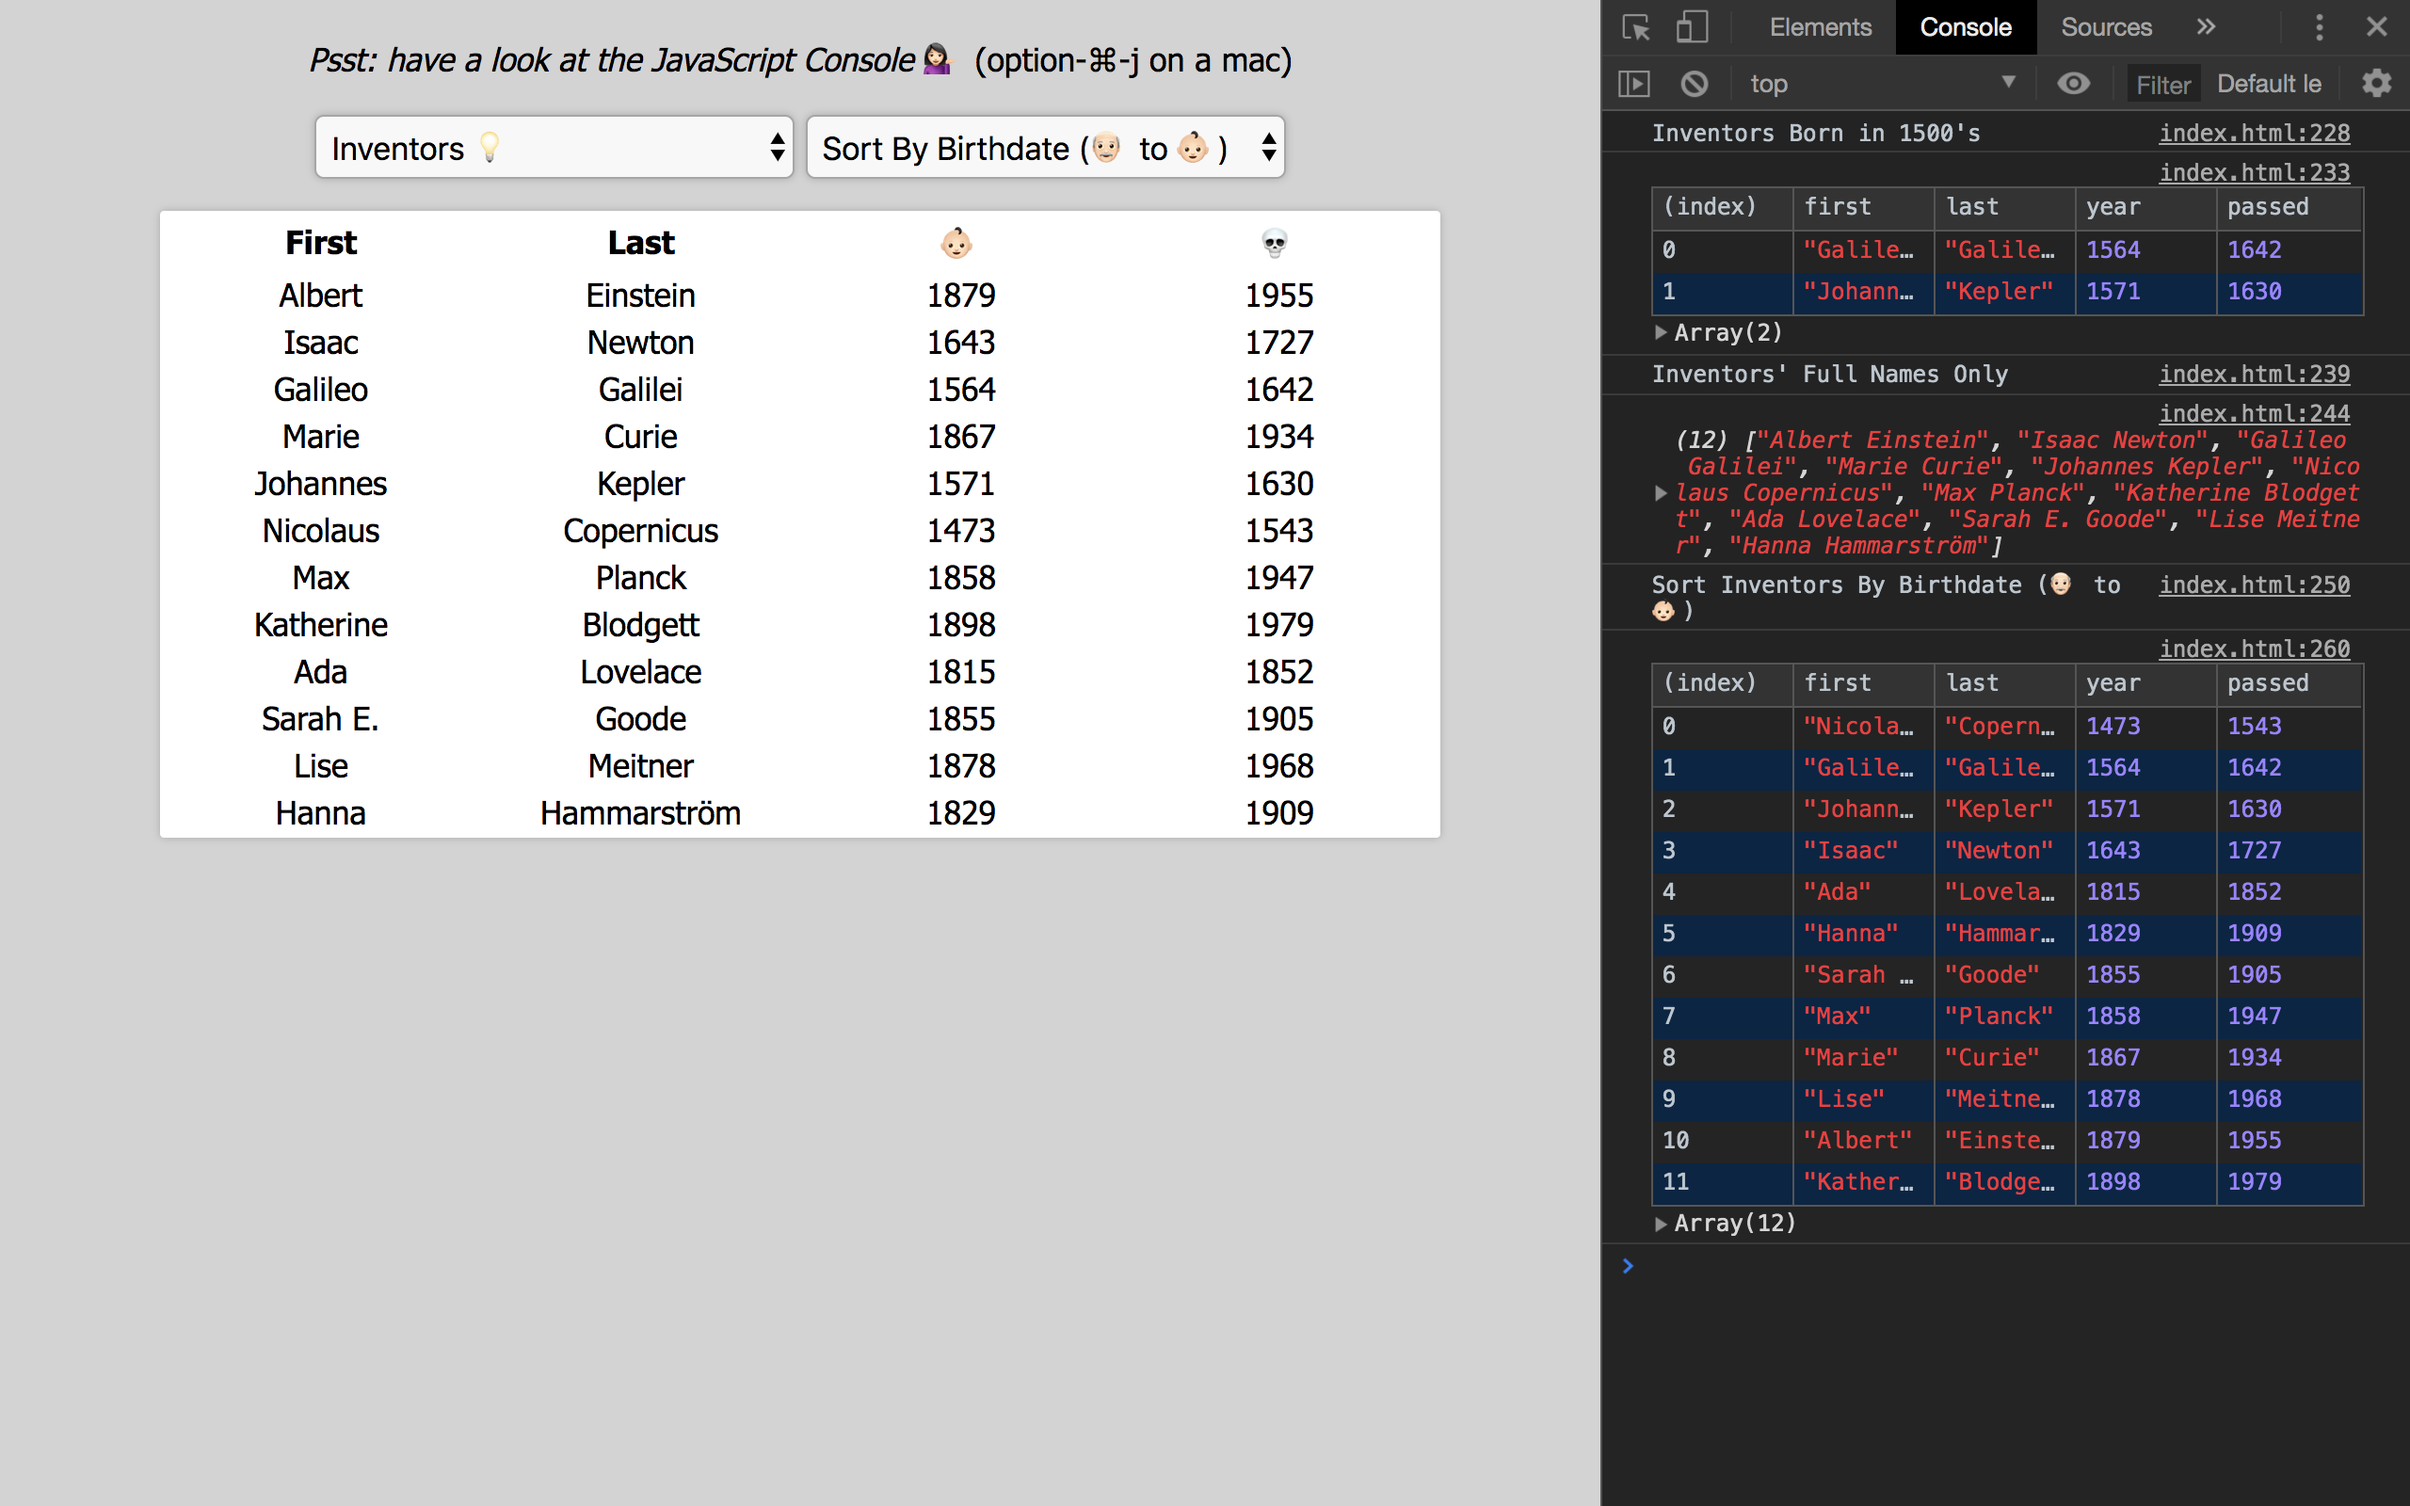
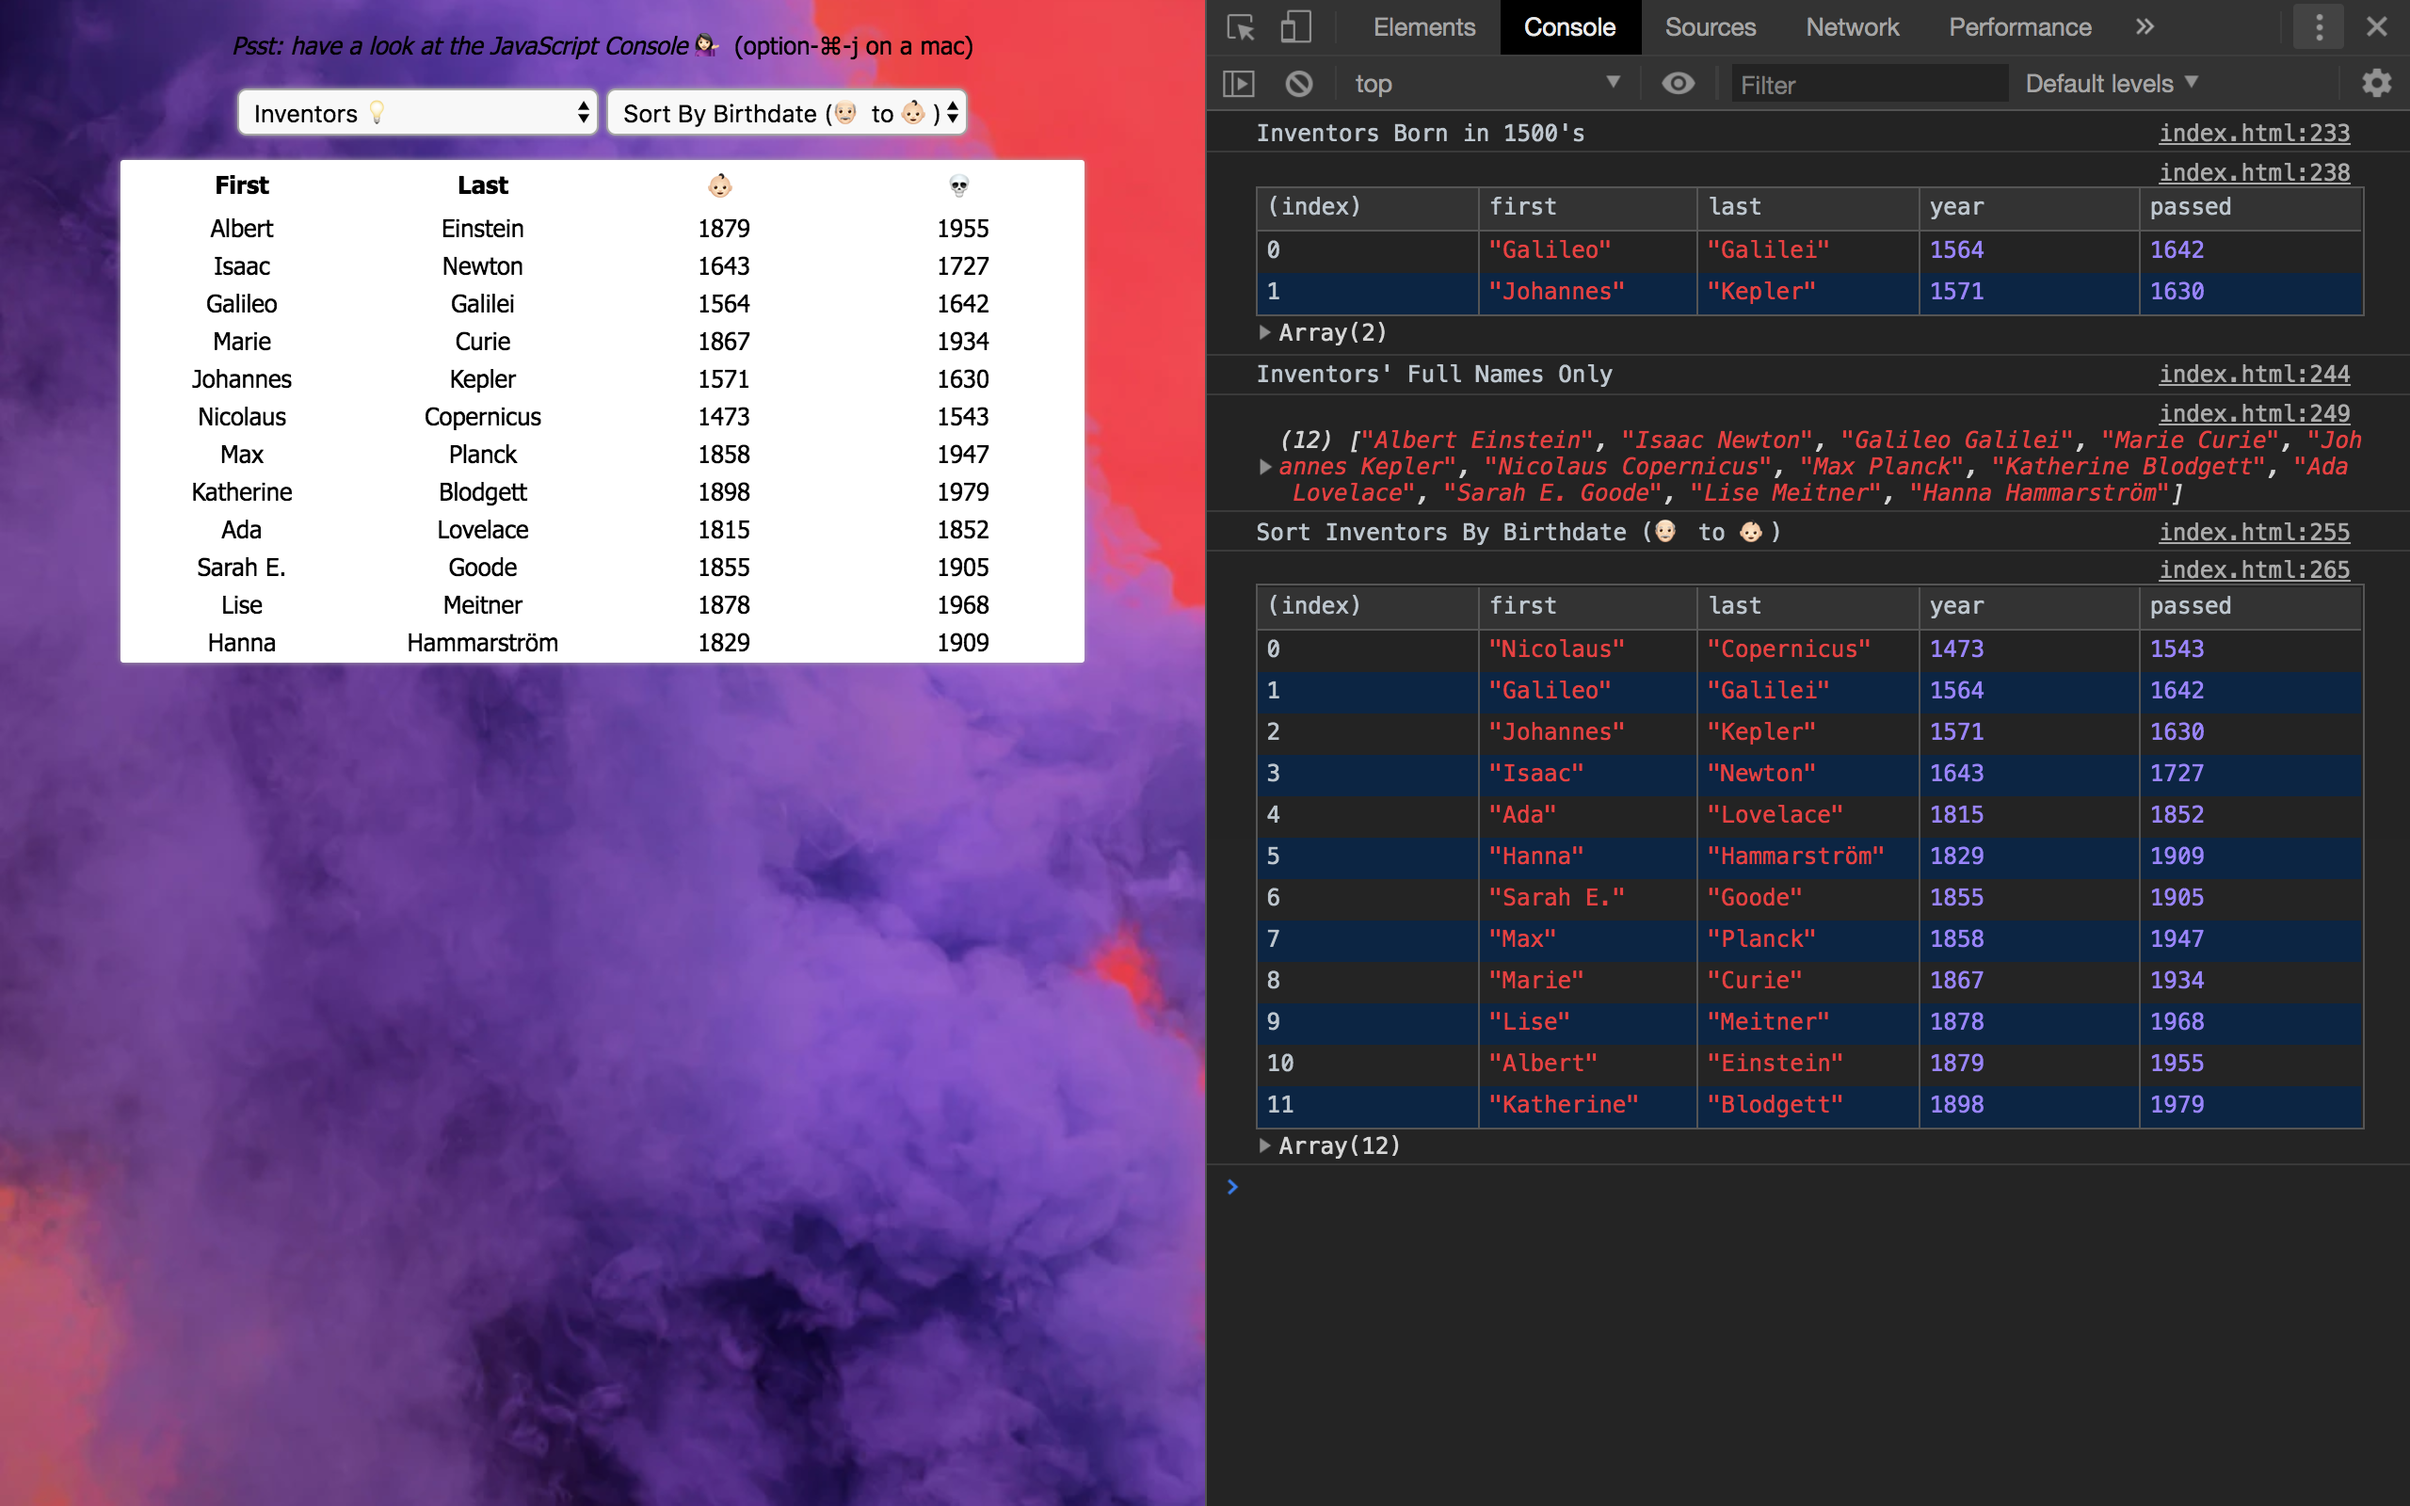
Update styling

diff --git a/04 - Array Cardio Day 1/index.html b/04 - Array Cardio Day 1/index.html
@@ -42,7 +42,11 @@
       text-align: center;
       font-size: 2vw;
       font-family:'Segoe UI', Tahoma, Geneva, Verdana, sans-serif;
-      background-color: lightgrey;
+      background-image: url(https://images.unsplash.com/photo-1508898578281-774ac4893c0c?ixlib=rb-1.2.1&ixid=eyJhcHBfaWQiOjEyMDd9&auto=format&fit=crop&w=668&q=80);
+      background-repeat: no-repeat;
+      background-size: cover;
+      background-attachment: fixed;
+      background-position: center;
     }
 
     select {
